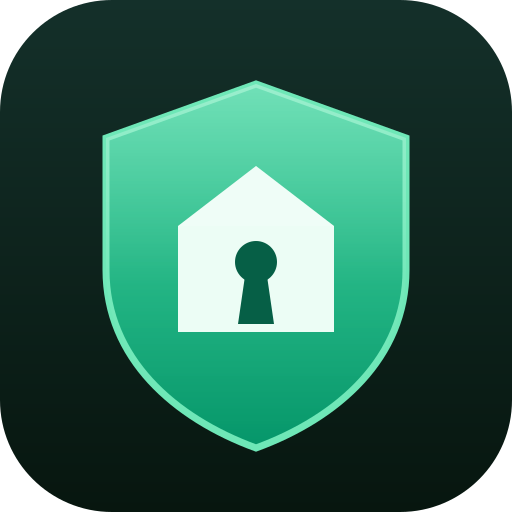
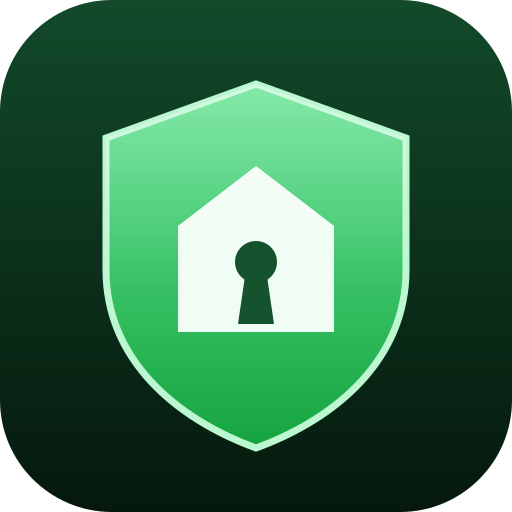
AegisHA: punch up the green (vivid green over muted emerald)
The emerald read as weak/teal-leaning. Shift the brand to a brighter,
more saturated true green: shield #4ade80 -> #15a33f on a deeper green
tile, accents #86efac / #16a34a, applied across icon, logo, web UI, and
the card. Semantic alarm-state colors unchanged.

Changed region(s): [[0.1875, 0.1562, 0.8125, 0.875], [0.0625, 0.0, 0.9375, 0.0938]]

diff --git a/aegis_ha/internal/web/templates/index.html b/aegis_ha/internal/web/templates/index.html
@@ -15,12 +15,12 @@
 <script src="https://unpkg.com/htmx-ext-ws@2.0.3"></script>
 <style>
   :root { color-scheme: dark; }
-  body { font-family: system-ui, sans-serif; background:#0a1a14; color:#e6e9f5; margin:0; padding:1.2rem; }
+  body { font-family: system-ui, sans-serif; background:#08190f; color:#e6e9f5; margin:0; padding:1.2rem; }
   .wrap { max-width:420px; margin:0 auto; }
   header { display:flex; justify-content:space-between; align-items:center; margin-bottom:1rem; }
-  header h1 { font-size:1.3rem; margin:0; color:#6ee7b7; }
-  header a { color:#6ee7b7; font-size:.85rem; }
-  .state { border-radius:14px; padding:1rem; text-align:center; margin-bottom:1rem; background:#14302a; }
+  header h1 { font-size:1.3rem; margin:0; color:#86efac; }
+  header a { color:#86efac; font-size:.85rem; }
+  .state { border-radius:14px; padding:1rem; text-align:center; margin-bottom:1rem; background:#143a24; }
   .state-name { font-size:1.6rem; font-weight:700; text-transform:uppercase; letter-spacing:.05em; }
   .state-mode, .state-delay { font-size:.9rem; opacity:.85; margin-top:.25rem; }
   .state-warn { color:#fca5a5; font-size:.85rem; margin-top:.4rem; }
@@ -29,11 +29,11 @@
   .state-triggered { background:#b91c1c; animation:pulse 1s infinite; }
   @keyframes pulse { 50% { opacity:.6; } }
   input[type=password] { width:100%; box-sizing:border-box; font-size:1.6rem; text-align:center; letter-spacing:.4em;
-    padding:.6rem; border-radius:10px; border:1px solid #2f5446; background:#0d2018; color:#e6e9f5; margin-bottom:.6rem; }
+    padding:.6rem; border-radius:10px; border:1px solid #336b48; background:#0c2415; color:#e6e9f5; margin-bottom:.6rem; }
   .pad { display:grid; grid-template-columns:repeat(3,1fr); gap:.5rem; margin-bottom:.8rem; }
-  .pad button { font-size:1.4rem; padding:.7rem; border-radius:10px; border:1px solid #2f5446; background:#14302a; color:#e6e9f5; }
+  .pad button { font-size:1.4rem; padding:.7rem; border-radius:10px; border:1px solid #336b48; background:#143a24; color:#e6e9f5; }
   .modes { display:grid; grid-template-columns:repeat(2,1fr); gap:.5rem; }
-  .modes button { font-size:1rem; padding:.8rem; border-radius:10px; border:none; background:#059669; color:#fff; font-weight:600; }
+  .modes button { font-size:1rem; padding:.8rem; border-radius:10px; border:none; background:#16a34a; color:#fff; font-weight:600; }
   .modes button.disarm { background:#374151; grid-column:1 / -1; }
   #msg { min-height:1.4rem; text-align:center; margin-top:.7rem; font-size:.95rem; color:#fcd34d; }
 </style>

diff --git a/aegis_ha/internal/web/templates/admin.html b/aegis_ha/internal/web/templates/admin.html
@@ -6,16 +6,16 @@
 <title>AegisHA &middot; Users</title>
 <style>
   :root { color-scheme: dark; }
-  body { font-family: system-ui, sans-serif; background:#0a1a14; color:#e6e9f5; margin:0; padding:1.2rem; }
+  body { font-family: system-ui, sans-serif; background:#08190f; color:#e6e9f5; margin:0; padding:1.2rem; }
   .wrap { max-width:560px; margin:0 auto; }
   header { display:flex; justify-content:space-between; align-items:center; margin-bottom:1rem; }
-  header h1 { font-size:1.3rem; margin:0; color:#6ee7b7; }
-  header a { color:#6ee7b7; font-size:.85rem; }
+  header h1 { font-size:1.3rem; margin:0; color:#86efac; }
+  header a { color:#86efac; font-size:.85rem; }
   table { width:100%; border-collapse:collapse; margin-bottom:1.4rem; }
   th, td { text-align:left; padding:.5rem; border-bottom:1px solid #243; font-size:.9rem; }
-  form.add { display:grid; grid-template-columns:1fr 1fr; gap:.5rem; background:#14302a; padding:1rem; border-radius:12px; }
-  form.add input, form.add select { padding:.5rem; border-radius:8px; border:1px solid #2f5446; background:#0d2018; color:#e6e9f5; }
-  form.add button { grid-column:1 / -1; padding:.7rem; border:none; border-radius:8px; background:#059669; color:#fff; font-weight:600; }
+  form.add { display:grid; grid-template-columns:1fr 1fr; gap:.5rem; background:#143a24; padding:1rem; border-radius:12px; }
+  form.add input, form.add select { padding:.5rem; border-radius:8px; border:1px solid #336b48; background:#0c2415; color:#e6e9f5; }
+  form.add button { grid-column:1 / -1; padding:.7rem; border:none; border-radius:8px; background:#16a34a; color:#fff; font-weight:600; }
   .badge { font-size:.75rem; padding:.1rem .5rem; border-radius:99px; background:#374151; }
   .badge.on { background:#166534; }
   .badge.off { background:#7f1d1d; }

diff --git a/aegis_ha/internal/card/aegis_ha-card.js b/aegis_ha/internal/card/aegis_ha-card.js
@@ -75,7 +75,7 @@ class AegisHACard extends HTMLElement {
     if (feat & FEATURES.ARM_CUSTOM_BYPASS) armBtns.push(["custom", "alarm_arm_custom_bypass", "Custom"]);
 
     const colors = {
-      disarmed: "#2e7d32",
+      disarmed: "#16a34a",
       arming: "#ef6c00",
       pending: "#ef6c00",
       triggered: "#c62828",
@@ -102,7 +102,7 @@ class AegisHACard extends HTMLElement {
           .pad { display:grid; grid-template-columns:repeat(3,1fr); gap:8px; margin-bottom:12px; }
           .pad button { font-size:1.3rem; padding:12px; border-radius:10px; border:1px solid var(--divider-color,#ccc); background:var(--card-background-color,#fff); cursor:pointer; }
           .modes { display:grid; grid-template-columns:repeat(2,1fr); gap:8px; }
-          .modes button { padding:12px; border-radius:10px; border:none; background:var(--primary-color,#059669); color:#fff; font-weight:600; cursor:pointer; }
+          .modes button { padding:12px; border-radius:10px; border:none; background:var(--primary-color,#16a34a); color:#fff; font-weight:600; cursor:pointer; }
           .modes button.disarm { grid-column:1 / -1; background:#455a64; }
         </style>
         <div class="hdr">